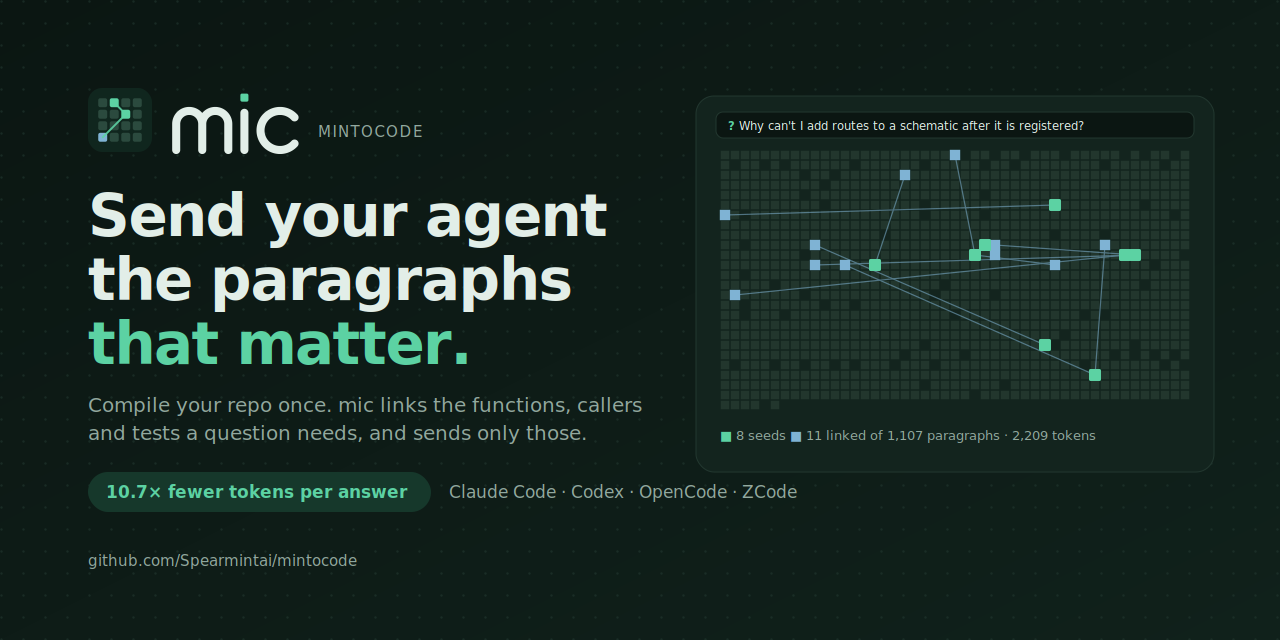
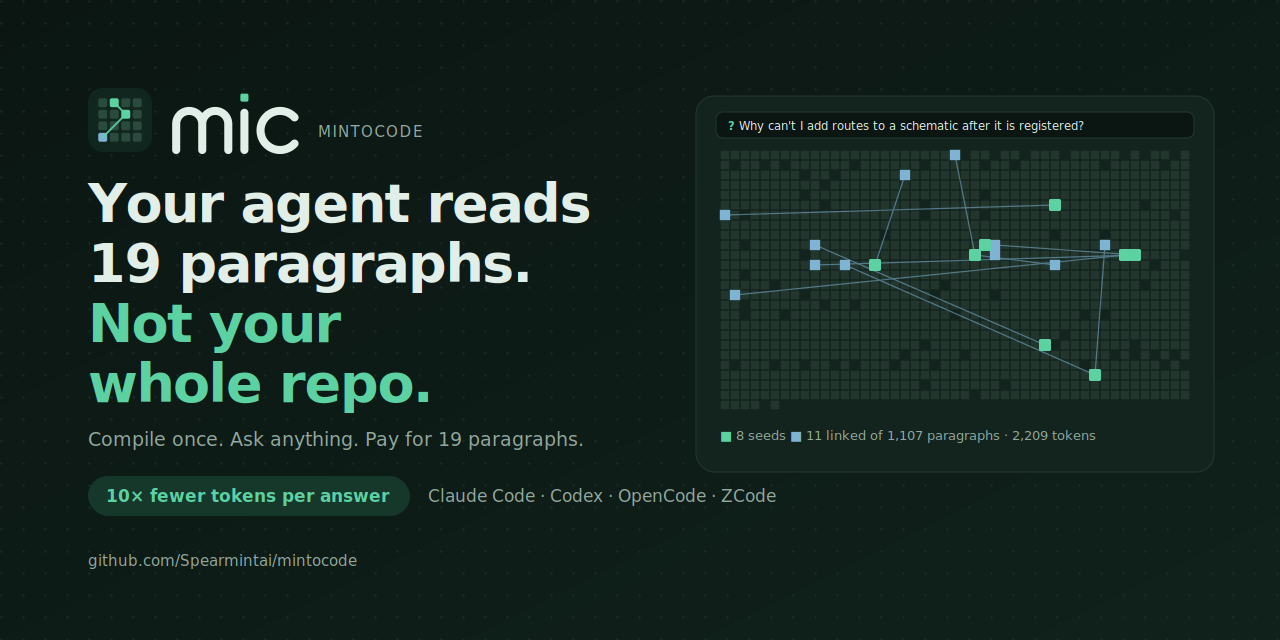
Launch polish: one headline, one number, details folded
- hero: "Your agent reads 19 paragraphs. Not your whole repo." with 10× fewer tokens and up to 3.6× more plan
- new "Why mic" row; install trimmed to two blocks, every agent/MCP/backend detail in a fold
- results keep every measured number; the hooks deep-dive and dropped experiments move into folds
- home page and banner/social preview use the same headline

Changed region(s): [[0.0625, 0.2812, 0.625, 0.8125]]

diff --git a/docs/index.html b/docs/index.html
@@ -175,10 +175,10 @@ footer { padding-block: 32px 48px; border-top: 1px solid var(--line); display: f
   <div class="hero">
     <div>
       <p class="label">Compiled context for coding agents</p>
-      <h1 style="margin-top:14px">Send the paragraphs that matter. <em>Skip the other 1,088.</em></h1>
+      <h1 style="margin-top:14px">Your agent reads 19 paragraphs. <em>Not your whole repo.</em></h1>
       <p class="lede">mic compiles your repository once. For every question it links the few functions, definitions,
         callers and tests that answer it, and your agent reads those instead of exploring. On SWE-QA that is
-        <b>7,300 tokens per answer instead of 77,900</b>.</p>
+        <b>10× fewer tokens per answer</b>, and up to 3.6× more out of your coding plan.</p>
 
       <div class="install">
         <div class="tabs" role="tablist" aria-label="Install">
@@ -232,8 +232,8 @@ footer { padding-block: 32px 48px; border-top: 1px solid var(--line); display: f
       score and cut frontier calls by a quarter; <code>mic ask</code> answers in one call, or with no frontier call at all, and trades some judged quality for it. Every row is reproducible with <code>bench/</code>, and the README lists the
       approaches that did not pay off.</p>
     <div class="facts">
-      <div class="fact"><b>3.6×</b><span>more answers from the same coding plan, with Haiku reading the pack</span></div>
-      <div class="fact"><b>10.7×</b><span>fewer tokens per answer; packs build in ~30 ms with no model call</span></div>
+      <div class="fact"><b>10×</b><span>fewer tokens per answer: 7,300 instead of 77,900</span></div>
+      <div class="fact"><b>3.6×</b><span>more answers from the same coding plan</span></div>
       <div class="fact"><b>~90%</b><span>of compiled citations resolve to exact source spans</span></div>
     </div>
   </section>

diff --git a/docs/assets/build.py b/docs/assets/build.py
@@ -122,11 +122,11 @@ def banner(theme: str) -> str:
     W, H = 1280, 640
     grid, gh = linkmap(720, 150, 470, 330, t)
     left = 88
-    label = "10.7× fewer tokens per answer"
+    label = "10× fewer tokens per answer"
     cw = len(label) * 10.6 + 36
-    chips = [f'<rect x="{left}" y="472" width="{cw:.0f}" height="40" rx="20" fill="{t["mintsoft"]}"/>'
-             f'<text x="{left + 18}" y="498" font-family="{SANS}" font-size="17" font-weight="700" fill="{t["mint"]}">{esc(label)}</text>'
-             f'<text x="{left + cw + 18:.0f}" y="498" font-family="{SANS}" font-size="17" fill="{t["muted"]}">Claude Code · Codex · OpenCode · ZCode</text>']
+    chips = [f'<rect x="{left}" y="476" width="{cw:.0f}" height="40" rx="20" fill="{t["mintsoft"]}"/>'
+             f'<text x="{left + 18}" y="502" font-family="{SANS}" font-size="17" font-weight="700" fill="{t["mint"]}">{esc(label)}</text>'
+             f'<text x="{left + cw + 18:.0f}" y="502" font-family="{SANS}" font-size="17" fill="{t["muted"]}">Claude Code · Codex · OpenCode · ZCode</text>']
     return f'''<svg xmlns="http://www.w3.org/2000/svg" viewBox="0 0 {W} {H}" width="{W}" height="{H}" role="img"
  aria-label="mic: send your agent the paragraphs that matter">
 <defs>
@@ -137,11 +137,10 @@ def banner(theme: str) -> str:
 <rect width="{W}" height="{H}" fill="url(#dots)" opacity="0.6"/>
 {mark(left, 88, 64)}{wordmark(left + 82, 88, 0.62, t["ink"], t["mint"])}
 <text x="{left + 230}" y="137" font-family="{MONO}" font-size="15" fill="{t["muted"]}" letter-spacing="1.5">MINTOCODE</text>
-<text font-family="{SANS}" font-weight="800" font-size="58" letter-spacing="-1.5" fill="{t["ink"]}">
- <tspan x="{left}" y="236">Send your agent</tspan><tspan x="{left}" y="300">the paragraphs</tspan>
- <tspan x="{left}" y="364" fill="{t["mint"]}">that matter.</tspan></text>
-<text font-family="{SANS}" font-size="20" fill="{t["muted"]}"><tspan x="{left}" y="412">Compile your repo once. mic links the functions, callers</tspan>
- <tspan x="{left}" y="440">and tests a question needs, and sends only those.</tspan></text>
+<text font-family="{SANS}" font-weight="800" font-size="54" letter-spacing="-1.5" fill="{t["ink"]}">
+ <tspan x="{left}" y="222">Your agent reads</tspan><tspan x="{left}" y="282">19 paragraphs.</tspan>
+ <tspan x="{left}" y="342" fill="{t["mint"]}">Not your</tspan><tspan x="{left}" y="402" fill="{t["mint"]}">whole repo.</tspan></text>
+<text font-family="{SANS}" font-size="19" fill="{t["muted"]}"><tspan x="{left}" y="446">Compile once. Ask anything. Pay for 19 paragraphs.</tspan></text>
 {"".join(chips)}
 <text x="{left}" y="566" font-family="{MONO}" font-size="15" fill="{t["muted"]}">github.com/Spearmintai/mintocode</text>
 <rect x="696" y="96" width="518" height="{gh + 116:.0f}" rx="18" fill="{t["panel"]}" stroke="{t["line"]}"/>

diff --git a/README.md b/README.md
@@ -2,13 +2,15 @@
 
 <picture>
   <source media="(prefers-color-scheme: dark)" srcset="docs/assets/logo-dark.svg">
-  <img alt="mic" src="docs/assets/logo-light.svg" width="260">
+  <img alt="mic" src="docs/assets/logo-light.svg" width="240">
 </picture>
 
-### Send your coding agent the paragraphs that matter.
+<h1>Your agent reads 19 paragraphs.<br>Not your whole repo.</h1>
 
-Compile your repo once. **mic** links the functions, callers and tests a question needs, and sends only those.<br>
-**Up to 3.6× more answers from the same coding plan**, and 7,300 tokens per answer instead of 77,900.
+**mic** compiles your codebase once. Then Claude Code, Codex, or any MCP agent<br>
+gets only the functions, callers and tests a question actually needs.
+
+<h3>⚡ 10× fewer tokens per answer &nbsp;·&nbsp; 🔋 up to 3.6× more out of your plan</h3>
 
 <p>
   <a href="https://github.com/Spearmintai/mintocode/stargazers"><img alt="GitHub stars" src="https://img.shields.io/github/stars/Spearmintai/mintocode?style=flat&logo=github&color=16845f&labelColor=10261e"></a>
@@ -17,11 +19,11 @@ Compile your repo once. **mic** links the functions, callers and tests a questio
   <img alt="Zero dependencies" src="https://img.shields.io/badge/dependencies-0-16845f?style=flat&labelColor=10261e">
   <br>
   <a href="#install"><img alt="Claude Code plugin" src="https://img.shields.io/badge/Claude%20Code-plugin-5cd2a3?style=flat&logo=anthropic&logoColor=white&labelColor=10261e"></a>
-  <a href="#install"><img alt="Works with Codex, OpenCode, ZCode" src="https://img.shields.io/badge/works%20with-Codex%20%C2%B7%20OpenCode%20%C2%B7%20ZCode-7fb3d4?style=flat&labelColor=10261e"></a>
+  <a href="#install"><img alt="Works with Codex, OpenCode, ZCode" src="https://img.shields.io/badge/works%20with-Codex%20%C2%B7%20OpenCode%20%C2%B7%20ZCode%20%C2%B7%20any%20MCP-7fb3d4?style=flat&labelColor=10261e"></a>
   <a href="https://spearmintai.github.io/mintocode/"><img alt="Home page" src="https://img.shields.io/badge/home-spearmintai.github.io-5cd2a3?style=flat&labelColor=10261e"></a>
 </p>
 
-[Home page](https://spearmintai.github.io/mintocode/) · [Install](#install) · [Results](#results) · [How it works](#what-it-does) · [Ideas](#what-a-compiled-codebase-makes-possible) · [Agents](#install) · [Reproduce](bench/)
+[**Home page**](https://spearmintai.github.io/mintocode/) · [Install](#install) · [How it works](#how-it-works) · [Results](#results) · [What's next](#whats-next) · [Reproduce](bench/)
 
 <br>
 
@@ -34,6 +36,34 @@ Compile your repo once. **mic** links the functions, callers and tests a questio
 
 <br>
 
+## Why mic
+
+<table>
+<tr>
+<td width="33%" valign="top">
+
+### ⚡ 10× fewer tokens
+Claude Code spends ~78k tokens exploring a repo to answer one question. mic hands over only the paragraphs that
+matter: **~7,300 tokens per answer**.
+
+</td>
+<td width="33%" valign="top">
+
+### 🔋 More out of your plan
+The expensive reading happens once, at compile time. After that, questions take one frontier call, or none:
+**up to 3.6× more answers** from the same plan.
+
+</td>
+<td width="33%" valign="top">
+
+### 🔌 Every agent
+Claude Code, Codex, OpenCode, ZCode, Cursor, VS Code, Claude Desktop, Windsurf, Gemini CLI. One compile, plain
+files you commit, shared by your whole team.
+
+</td>
+</tr>
+</table>
+
 ## Install
 
 **Claude Code** (hooks + MCP tools + `/mic:*` commands):
@@ -44,13 +74,16 @@ Compile your repo once. **mic** links the functions, callers and tests a questio
 /mic:compile
 ```
 
-**Everything else** (the CLI, then wire it into whatever agents you use):
+**Everything else**: Codex, OpenCode, ZCode, Cursor, VS Code, Claude Desktop, Windsurf, Gemini CLI, or no agent at all:
 
 ```bash
 pip install git+https://github.com/Spearmintai/mintocode
 mic compile .            # once per repository, incremental afterwards (mic update)
-mic install              # auto-detects Claude Code, Codex, OpenCode, ZCode
+mic install              # finds your agents and wires mic into each one
 ```
+
+<details>
+<summary><b>Every agent, MCP client and model backend</b></summary>
 
 | Agent | What `mic install <agent>` sets up |
 |---|---|
@@ -85,51 +118,9 @@ the `claude` CLI, `ANTHROPIC_API_KEY`, any OpenAI-compatible API (`OPENAI_API_KE
 Z.ai GLM, DeepSeek, OpenRouter, Ollama, vLLM; models via `MIC_OPENAI_MODEL_STRONG/_MEDIUM/_FAST`), or the `codex`
 CLI. Force one with `MIC_BACKEND=claude-cli|api|openai|codex`.
 
-## Stretch your coding plan
+</details>
 
-Claude Code and Codex plans cap how much frontier-model work you get per session and per week. Most of that budget
-goes to the agent re-reading your code. mic moves the reading into a one-time compile, so each question needs fewer
-frontier calls, or none.
-
-| Same 48 questions | Answers per plan budget ³ | Frontier-model calls per answer | Cost per answer (API) | Score |
-|---|---|---|---|---|
-| Claude Code, exploring by itself | **1.0×** | 5.2 | $0.061 | 78.7 |
-| Claude Code + mic hooks | **0.94×** | 3.8 | $0.065 | 79.3 |
-| `mic ask`, Sonnet reads the pack | **1.7×** | 1 | $0.036 | 72.9 |
-| `mic ask`, Haiku reads the pack | **3.6×** | 0 | $0.017 | 68.2 |
-
-³ Plans don't publish their metering, so this uses API-equivalent cost as the proxy: how many answers the same
-budget buys, relative to Claude Code exploring on its own. The compile is a one-time cost on top ($13.74
-API-equivalent for this 34k-line repo; incremental updates cost cents). At the Haiku row's saving it pays for itself
-after about 300 answers, and a committed `.micode/` is shared by the whole team.
-
-The trade is explicit: one-call answers score lower than a full agent session, so use `mic ask` for "where / how /
-why" questions about the code, and keep the agent's own turns for edits.
-
-### Why the hooks save less than `mic ask`: Claude Code explores anyway
-
-Inside a Claude Code session, mic can only add context. Claude Code still decides how to work, and by default it
-explores: it greps and reads to confirm things for itself, even when the answer and its exact line spans are already in
-front of it. We measured this rather than assumed it:
-
-- **The agent re-checks what it was handed.** With the link pack injected, Sonnet still makes 2.8 tool calls per
-  question (4.2 without mic), often grepping the very names the pack gave it. Telling it, in the injected context,
-  that the spans were verified and it can answer now made no measurable difference.
-- **Turns, not bytes, drive the bill.** Every turn re-sends Claude Code's own ~13k-token system prompt and tool
-  definitions, so a 2,000-token read costs far less than the extra turn it takes to make it. The hooks cut turns from
-  5.2 to 3.8 per question, and that's where their 1.2× token saving comes from.
-- **Injected context is billed at the highest rate.** A link pack is new text on every prompt, so it is written to the
-  prompt cache (the most expensive token class) and then re-read on every later turn. That is why the hooks come out at
-  about the same plan cost as Claude Code alone (0.94×) despite fewer calls.
-- **A plugin can't change any of this.** Hooks can't stop exploration, can't place their context in the cached part of
-  the prompt, and can't replace the output of built-in tools like Grep and Read (only MCP tool output can be rewritten).
-
-So mic gives you two modes. The hooks keep Claude Code's full judgment at the same quality with fewer frontier calls;
-`mic ask` skips the exploration loop entirely and is where the 1.7-3.6× plan savings come from. If Claude Code adds a
-cache-stable slot for hook context, or lets hooks condense built-in tool output, the hooks' savings should grow; we have
-proposed both to the Claude Code team in [anthropics/claude-code#100709](https://github.com/anthropics/claude-code/issues/100709).
-
-## What it does
+## How it works
 
 Most context tools either paste the repository into the window (repomix, gitingest), or index raw code and let the
 agent search it (claude-context, Serena, codebase-memory graphs). mic does what a compiler and a linker do:
@@ -175,6 +166,23 @@ session model then relays that answer, which adds its own turn, so the cheapest 
   <img alt="Tokens per answer and answers per plan: Claude Code 77,900 (1.0x); with mic hooks 67,100 (0.9x); mic ask with Sonnet 7,300 (1.7x); with Haiku 6,500 (3.6x)" src="docs/assets/bench-light.svg" width="860">
 </picture>
 
+**More answers from the same plan**
+
+| Same 48 questions | Answers per plan budget ³ | Frontier-model calls per answer | Cost per answer (API) | Score |
+|---|---|---|---|---|
+| Claude Code, exploring by itself | **1.0×** | 5.2 | $0.061 | 78.7 |
+| Claude Code + mic hooks | **0.94×** | 3.8 | $0.065 | 79.3 |
+| `mic ask`, Sonnet reads the pack | **1.7×** | 1 | $0.036 | 72.9 |
+| `mic ask`, Haiku reads the pack | **3.6×** | 0 | $0.017 | 68.2 |
+
+³ Plans don't publish their metering, so this uses API-equivalent cost as the proxy: how many answers the same
+budget buys, relative to Claude Code exploring on its own. The compile is a one-time cost on top ($13.74
+API-equivalent for this 34k-line repo; incremental updates cost cents). At the Haiku row's saving it pays for itself
+after about 300 answers, and a committed `.micode/` is shared by the whole team.
+
+The trade is explicit: one-call answers score lower than a full agent session, so use `mic ask` for "where / how /
+why" questions about the code, and keep the agent's own turns for edits.
+
 Benchmark: [SWE-QA](https://github.com/peng-weihan/SWE-QA-Bench), 48 human-grounded questions about flask with
 reference answers, scored by SWE-QA's judge prompt (verbatim) with Opus as the judge. The agent is Sonnet 5.5 in both
 arms, with the same prompt and read-only tools, on the same commit.
@@ -207,14 +215,43 @@ the whole transcript; the hooks cut turns by 31%, and the savings grow with the 
 
 Compile cost for this repository (34k lines): $13.74 with Sonnet cards and Opus reasoning, about 9 minutes.
 
-What we tried and dropped, with numbers in `bench/`:
+<details>
+<summary><b>Why the in-session hooks save less than <code>mic ask</code></b></summary>
+
+Inside a Claude Code session, mic can only add context. Claude Code still decides how to work, and by default it
+explores: it greps and reads to confirm things for itself, even when the answer and its exact line spans are already in
+front of it. We measured this rather than assumed it:
+
+- **The agent re-checks what it was handed.** With the link pack injected, Sonnet still makes 2.8 tool calls per
+  question (4.2 without mic), often grepping the very names the pack gave it. Telling it, in the injected context,
+  that the spans were verified and it can answer now made no measurable difference.
+- **Turns, not bytes, drive the bill.** Every turn re-sends Claude Code's own ~13k-token system prompt and tool
+  definitions, so a 2,000-token read costs far less than the extra turn it takes to make it. The hooks cut turns from
+  5.2 to 3.8 per question, and that's where their 1.2× token saving comes from.
+- **Injected context is billed at the highest rate.** A link pack is new text on every prompt, so it is written to the
+  prompt cache (the most expensive token class) and then re-read on every later turn. That is why the hooks come out at
+  about the same plan cost as Claude Code alone (0.94×) despite fewer calls.
+- **A plugin can't change any of this.** Hooks can't stop exploration, can't place their context in the cached part of
+  the prompt, and can't replace the output of built-in tools like Grep and Read (only MCP tool output can be rewritten).
+
+So mic gives you two modes. The hooks keep Claude Code's full judgment at the same quality with fewer frontier calls;
+`mic ask` skips the exploration loop entirely and is where the 1.7-3.6× plan savings come from. If Claude Code adds a
+cache-stable slot for hook context, or lets hooks condense built-in tool output, the hooks' savings should grow; we have
+proposed both to the Claude Code team in [anthropics/claude-code#100709](https://github.com/anthropics/claude-code/issues/100709).
+
+</details>
+
+<details>
+<summary><b>What we tried and dropped, with numbers in <code>bench/</code></b></summary>
 
 - a Haiku "reader brief" injected per prompt: slower and costlier
 - delegating to a mic subagent: 1.1× *more* tokens
 - dense vectors from Laya's encoder: anisotropic, no retrieval signal
 - int8 Laya on CPU: slower on SSE-only CPUs and hurts the ranking
 
-## What a compiled codebase makes possible
+</details>
+
+## What's next
 
 mic applies the idea of [Machine-Interpretable Information](https://arxiv.org/abs/2609.23371) to code: a strong model reads everything once, and every later read is cheap. Once
 your repository is compiled, a few things open up. Some work today; some are where we are headed.
@@ -278,7 +315,8 @@ If you try any of these, open an issue with what you found.
 | [MICode-Tutor](https://github.com/Sqqlcyy/MICode-Tutor) (static .mic + packs) | | ✓ | | | | |
 | **mic** | | ✓ | ✓ (for agents) | ✓ | ✓ | ✓ |
 
-## Layout
+<details>
+<summary><b>Repository layout</b></summary>
 
 ```
 micode/            the Python package behind the `mic` command (stdlib only)
@@ -292,6 +330,8 @@ micode/            the Python package behind the `mic` command (stdlib only)
 .claude-plugin/ hooks/ commands/ skills/   the Claude Code plugin
 bench/             SWE-QA harness, de-memorizer, session benchmark, retrieval eval, reports
 ```
+
+</details>
 
 ## Ideas it builds on
 
